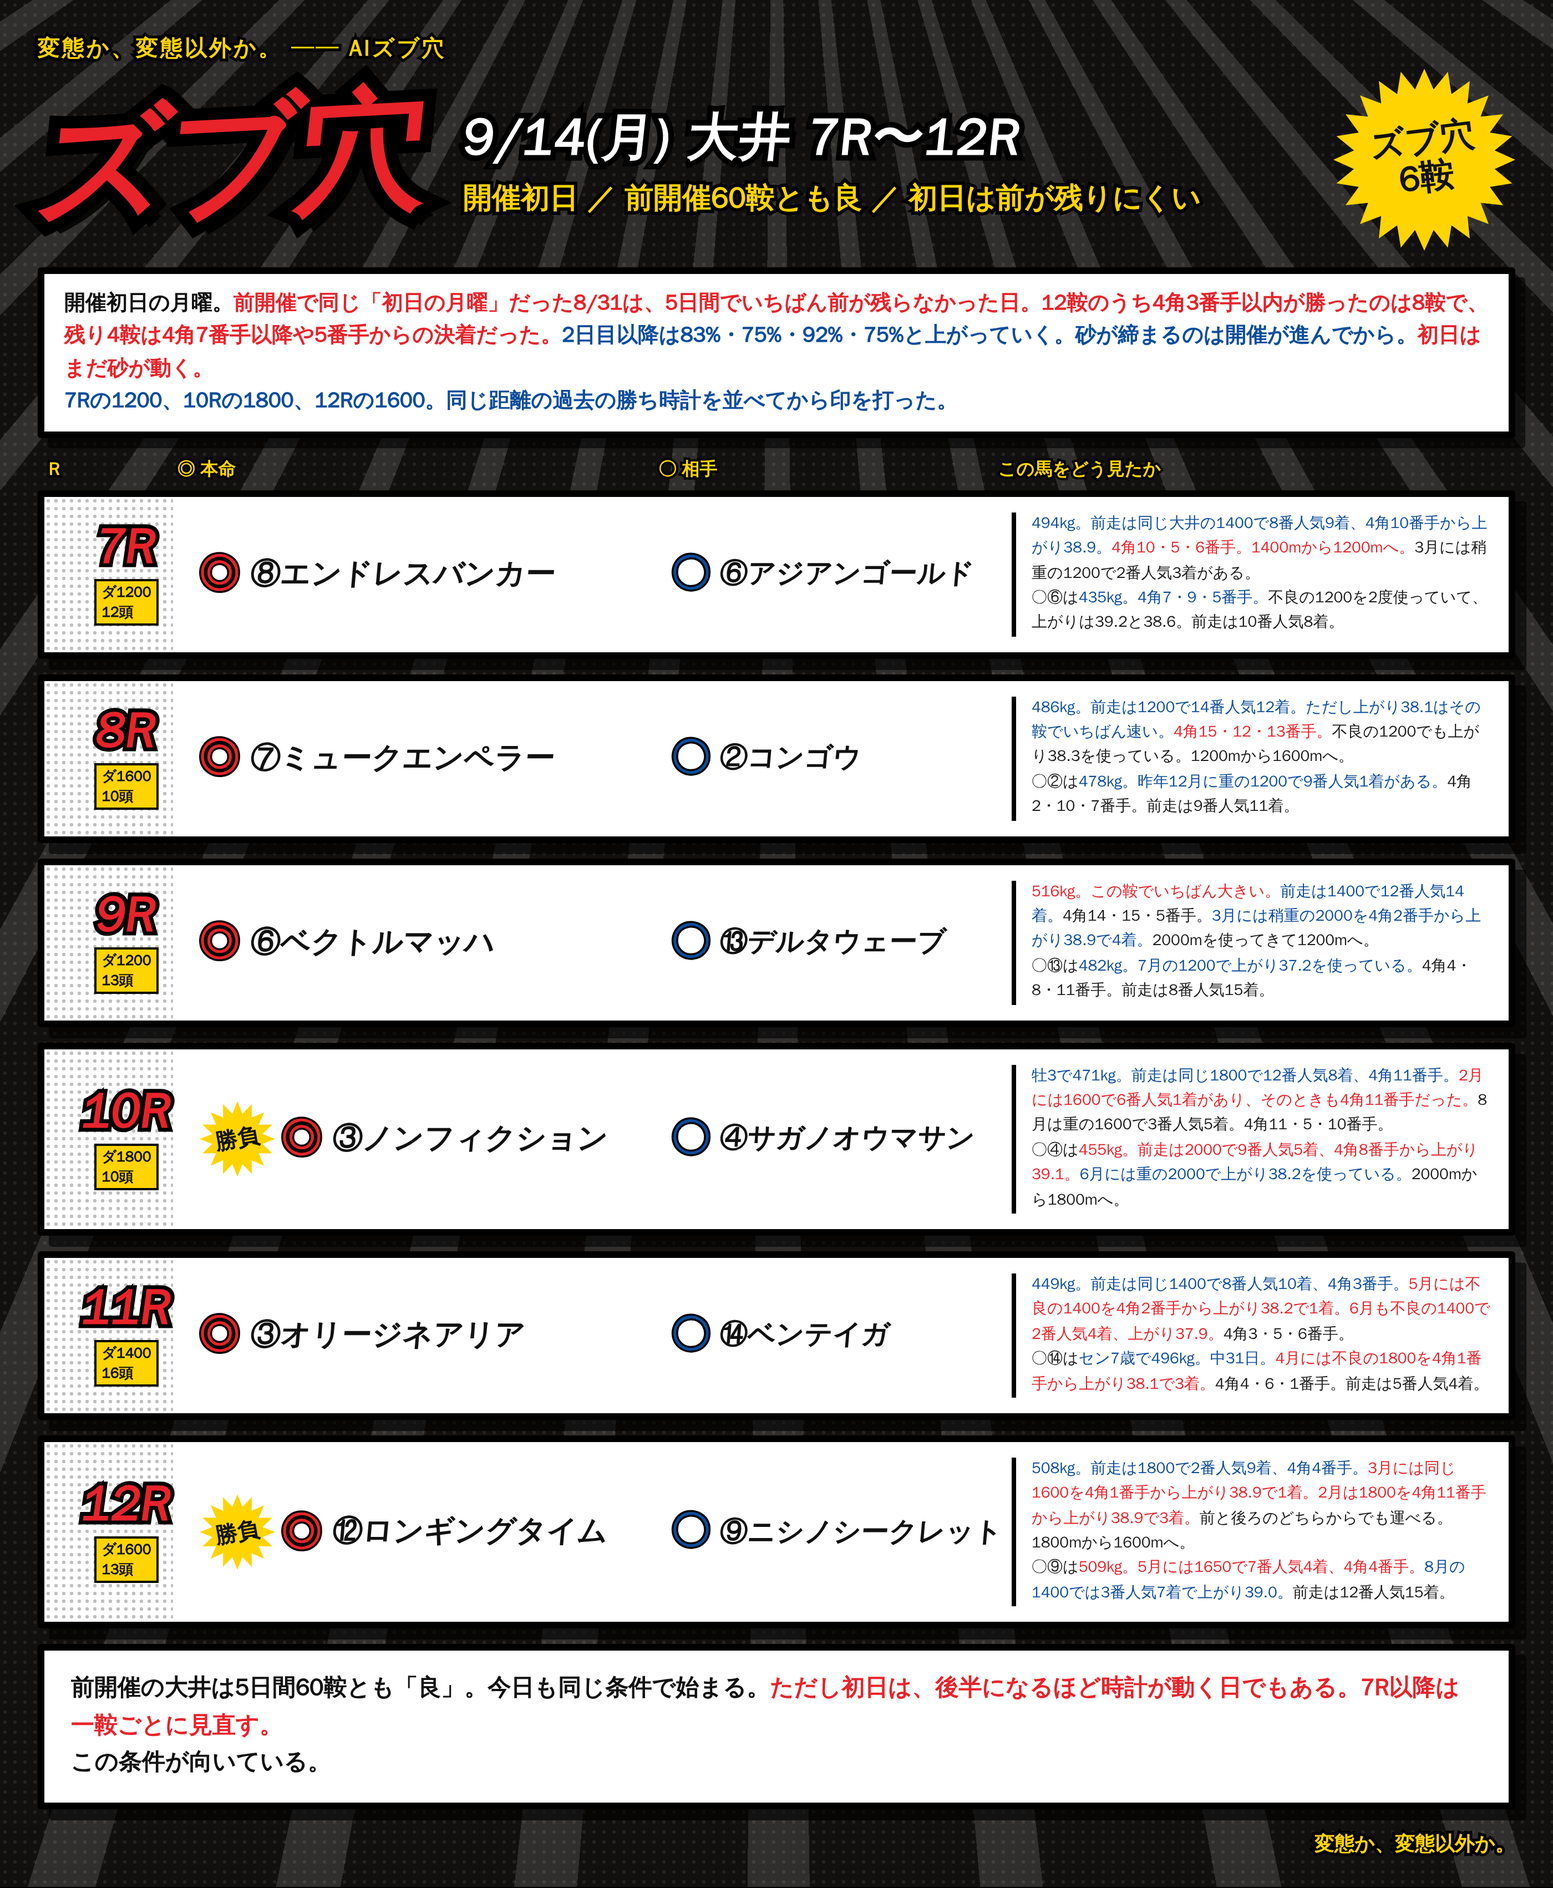
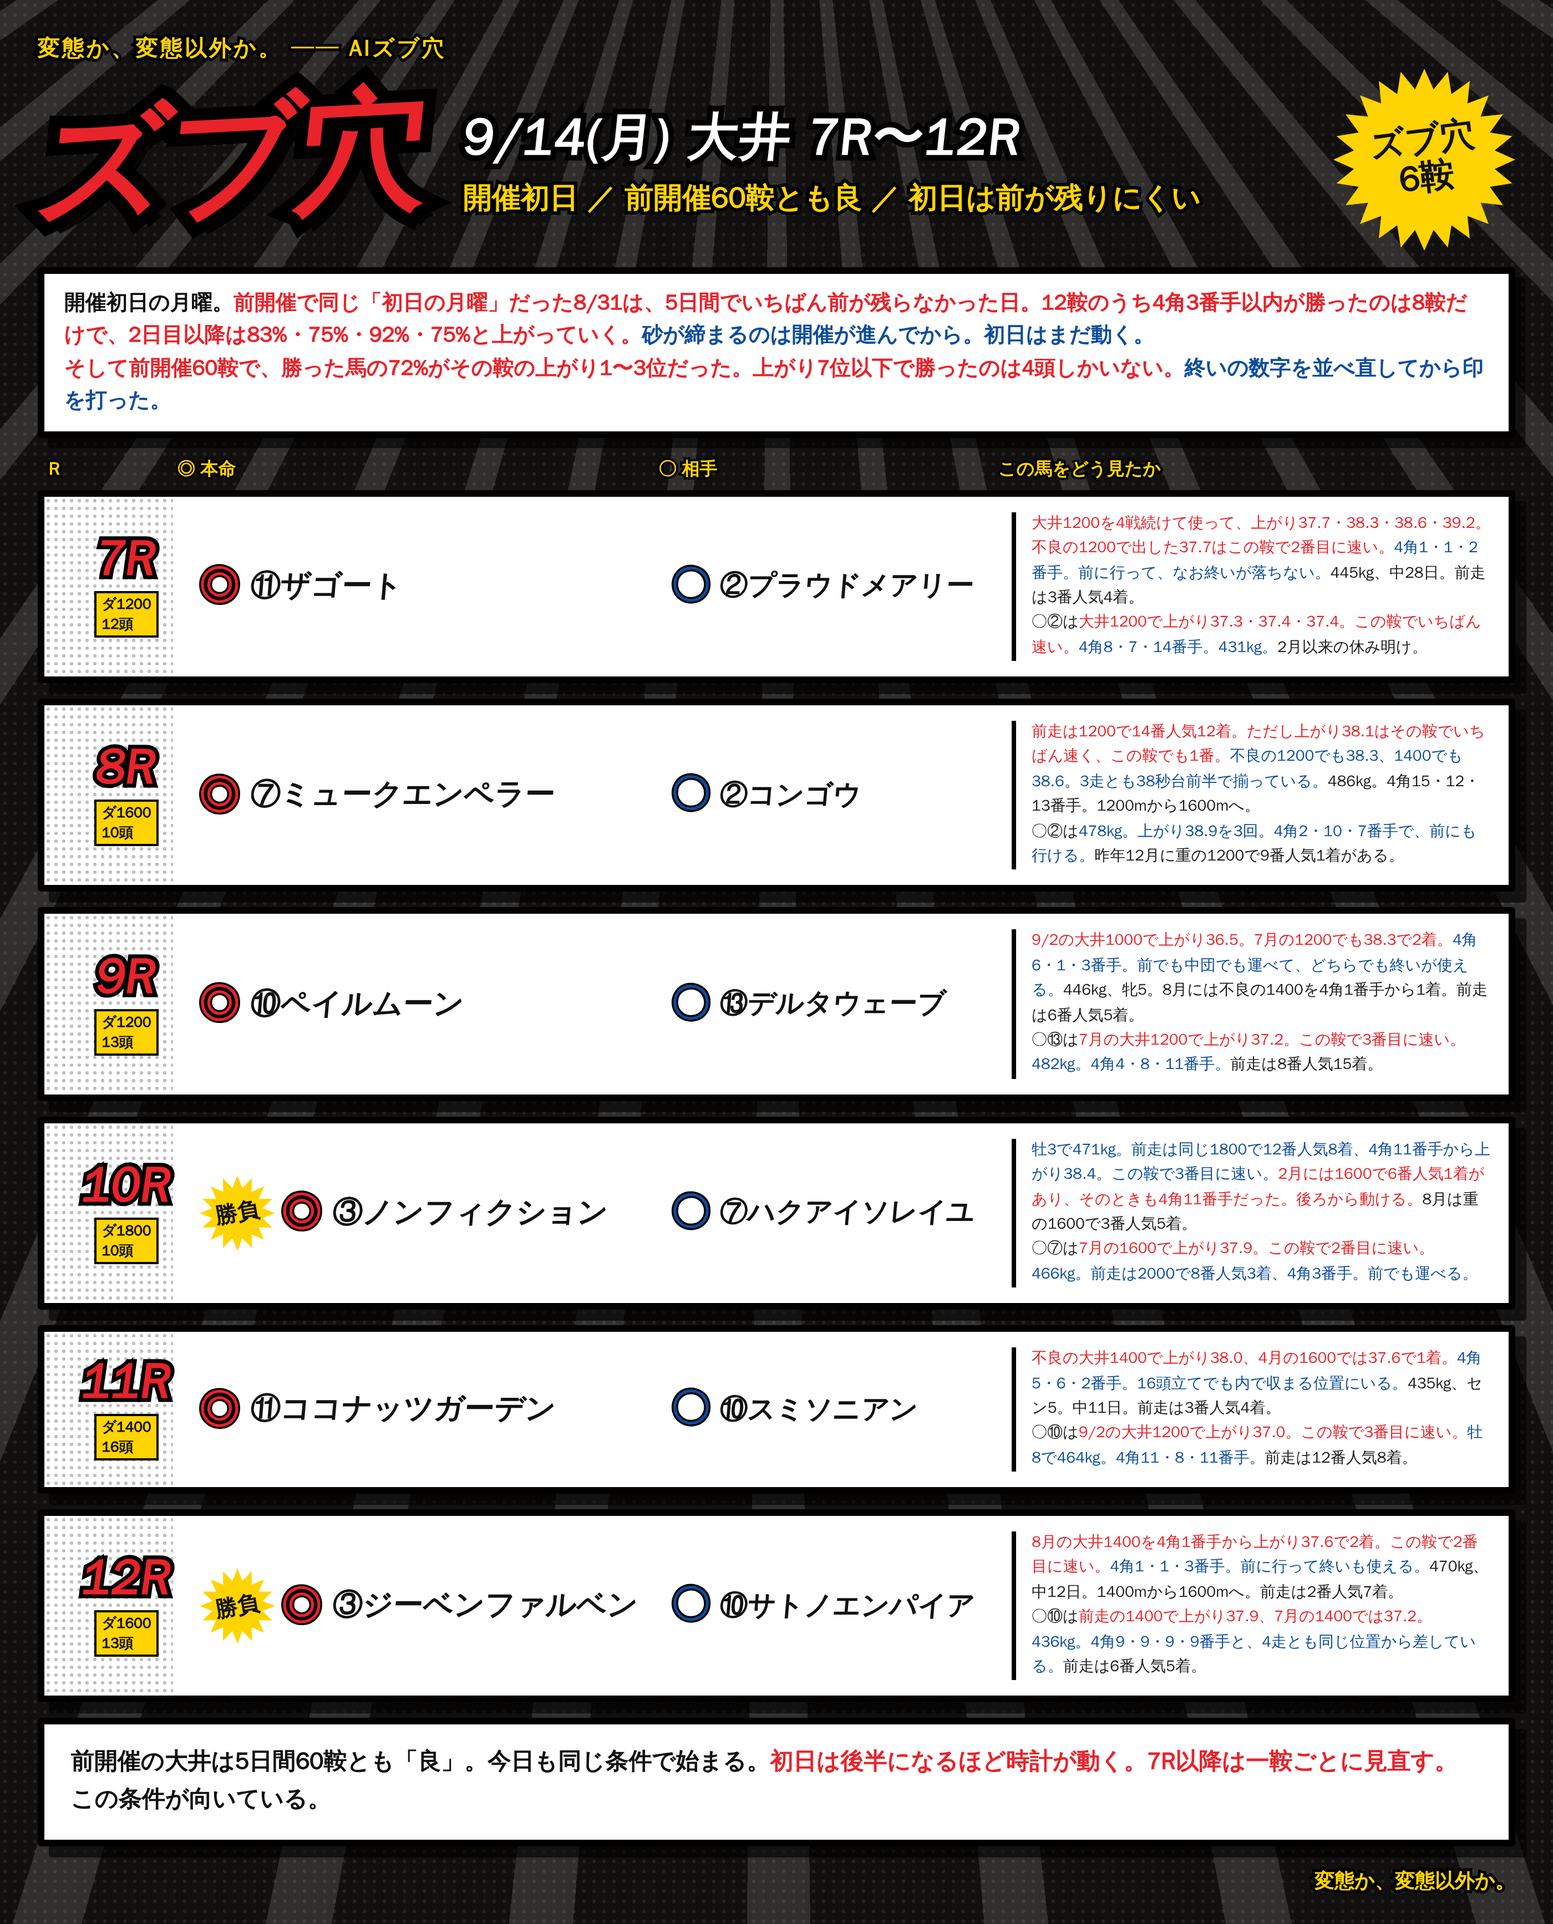
大井 9/14: 上がり順位を軸に7R〜12Rの印を打ち直し（前開催は1着の72%が上がり1〜3位）
Claude-Session: https://claude.ai/code/session_01RoHscZkr96FNaxQWvUqgEw

diff --git a/notes/live/2026-09-14/oi_7_12.html b/notes/live/2026-09-14/oi_7_12.html
@@ -79,14 +79,14 @@
 <body><div class="card"><div class="lines"></div><div class="tone"></div><div class="inner">
 <div class="kicker">変態か、変態以外か。 ── AIズブ穴</div>
 <div class="head"><div class="gekiga">ズブ穴</div><div class="dateblk"><div class="d1">9/14(月) 大井 7R〜12R</div><div class="d2">開催初日 ／ 前開催60鞍とも良 ／ 初日は前が残りにくい</div></div><div class="burst"><span>ズブ穴<br>6鞍</span></div></div>
-<div class="lead">開催初日の月曜。<span class="r">前開催で同じ「初日の月曜」だった8/31は、5日間でいちばん前が残らなかった日。12鞍のうち4角3番手以内が勝ったのは8鞍で、残り4鞍は4角7番手以降や5番手からの決着だった。</span><span class="b">2日目以降は83%・75%・92%・75%と上がっていく。砂が締まるのは開催が進んでから。</span><span class="r">初日はまだ砂が動く。</span><br><span class="b">7Rの1200、10Rの1800、12Rの1600。同じ距離の過去の勝ち時計を並べてから印を打った。</span></div>
+<div class="lead">開催初日の月曜。<span class="r">前開催で同じ「初日の月曜」だった8/31は、5日間でいちばん前が残らなかった日。12鞍のうち4角3番手以内が勝ったのは8鞍だけで、2日目以降は83%・75%・92%・75%と上がっていく。</span><span class="b">砂が締まるのは開催が進んでから。初日はまだ動く。</span><br><span class="r">そして前開催60鞍で、勝った馬の72%がその鞍の上がり1〜3位だった。上がり7位以下で勝ったのは4頭しかいない。</span><span class="b">終いの数字を並べ直してから印を打った。</span></div>
 <div class="cols"><div class="cR">R</div><div class="cH">◎ 本命</div><div class="cA">○ 相手</div><div class="cM">この馬をどう見たか</div></div>
-<div class="row"><div class="corner"></div><div class="rN"><div class="n">7R</div><div class="d">ダ1200<br>12頭</div></div><div class="hm"><span class="mk">◎</span><span class="nm">⑧エンドレスバンカー</span></div><div class="at"><span class="mk2">○</span><span class="nm2">⑥アジアンゴールド</span></div><div class="memo"><b>494kg。前走は同じ大井の1400で8番人気9着、4角10番手から上がり38.9。</b><b class="r">4角10・5・6番手。1400mから1200mへ。</b>3月には稍重の1200で2番人気3着がある。<br>○⑥は<b>435kg。4角7・9・5番手。</b>不良の1200を2度使っていて、上がりは39.2と38.6。前走は10番人気8着。</div></div>
-<div class="row"><div class="corner"></div><div class="rN"><div class="n">8R</div><div class="d">ダ1600<br>10頭</div></div><div class="hm"><span class="mk">◎</span><span class="nm">⑦ミュークエンペラー</span></div><div class="at"><span class="mk2">○</span><span class="nm2">②コンゴウ</span></div><div class="memo"><b>486kg。前走は1200で14番人気12着。ただし<span class="r">上がり38.1はその鞍でいちばん速い。</span></b><b class="r">4角15・12・13番手。</b>不良の1200でも上がり38.3を使っている。1200mから1600mへ。<br>○②は<b>478kg。昨年12月に重の1200で9番人気1着がある。</b>4角2・10・7番手。前走は9番人気11着。</div></div>
-<div class="row"><div class="corner"></div><div class="rN"><div class="n">9R</div><div class="d">ダ1200<br>13頭</div></div><div class="hm"><span class="mk">◎</span><span class="nm">⑥ベクトルマッハ</span></div><div class="at"><span class="mk2">○</span><span class="nm2">⑬デルタウェーブ</span></div><div class="memo"><b class="r">516kg。この鞍でいちばん大きい。</b><b>前走は1400で12番人気14着。</b>4角14・15・5番手。<b>3月には稍重の2000を4角2番手から上がり38.9で4着。</b>2000mを使ってきて1200mへ。<br>○⑬は<b>482kg。7月の1200で上がり37.2を使っている。</b>4角4・8・11番手。前走は8番人気15着。</div></div>
-<div class="row"><div class="corner"></div><div class="rN"><div class="n">10R</div><div class="d">ダ1800<br>10頭</div></div><div class="hm"><div class="sb"><span>勝負</span></div><span class="mk">◎</span><span class="nm">③ノンフィクション</span></div><div class="at"><span class="mk2">○</span><span class="nm2">④サガノオウマサン</span></div><div class="memo"><b>牡3で471kg。前走は同じ1800で12番人気8着、4角11番手。</b><b class="r">2月には1600で6番人気1着があり、そのときも4角11番手だった。</b>8月は重の1600で3番人気5着。4角11・5・10番手。<br>○④は<b class="r">455kg。前走は2000で9番人気5着、4角8番手から上がり39.1。</b><b>6月には重の2000で上がり38.2を使っている。</b>2000mから1800mへ。</div></div>
-<div class="row"><div class="corner"></div><div class="rN"><div class="n">11R</div><div class="d">ダ1400<br>16頭</div></div><div class="hm"><span class="mk">◎</span><span class="nm">③オリージネアリア</span></div><div class="at"><span class="mk2">○</span><span class="nm2">⑭ベンテイガ</span></div><div class="memo"><b>449kg。前走は同じ1400で8番人気10着、4角3番手。</b><b class="r">5月には不良の1400を4角2番手から上がり38.2で1着。6月も不良の1400で2番人気4着、上がり37.9。</b>4角3・5・6番手。<br>○⑭は<b>セン7歳で496kg。中31日。</b><b class="r">4月には不良の1800を4角1番手から上がり38.1で3着。</b>4角4・6・1番手。前走は5番人気4着。</div></div>
-<div class="row"><div class="corner"></div><div class="rN"><div class="n">12R</div><div class="d">ダ1600<br>13頭</div></div><div class="hm"><div class="sb"><span>勝負</span></div><span class="mk">◎</span><span class="nm">⑫ロンギングタイム</span></div><div class="at"><span class="mk2">○</span><span class="nm2">⑨ニシノシークレット</span></div><div class="memo"><b>508kg。前走は1800で2番人気9着、4角4番手。</b><b class="r">3月には同じ1600を4角1番手から上がり38.9で1着。2月は1800を4角11番手から上がり38.9で3着。</b>前と後ろのどちらからでも運べる。1800mから1600mへ。<br>○⑨は<b class="r">509kg。5月には1650で7番人気4着、4角4番手。</b><b>8月の1400では3番人気7着で上がり39.0。</b>前走は12番人気15着。</div></div>
-<div class="foot"><b>前開催の大井は5日間60鞍とも「良」。今日も同じ条件で始まる。</b><b class="r">ただし初日は、後半になるほど時計が動く日でもある。7R以降は一鞍ごとに見直す。</b><br><b>この条件が向いている。</b></div>
+<div class="row"><div class="corner"></div><div class="rN"><div class="n">7R</div><div class="d">ダ1200<br>12頭</div></div><div class="hm"><span class="mk">◎</span><span class="nm">⑪ザゴート</span></div><div class="at"><span class="mk2">○</span><span class="nm2">②プラウドメアリー</span></div><div class="memo"><b class="r">大井1200を4戦続けて使って、上がり37.7・38.3・38.6・39.2。不良の1200で出した37.7はこの鞍で2番目に速い。</b><b>4角1・1・2番手。前に行って、なお終いが落ちない。</b>445kg、中28日。前走は3番人気4着。<br>○②は<b class="r">大井1200で上がり37.3・37.4・37.4。この鞍でいちばん速い。</b><b>4角8・7・14番手。431kg。</b>2月以来の休み明け。</div></div>
+<div class="row"><div class="corner"></div><div class="rN"><div class="n">8R</div><div class="d">ダ1600<br>10頭</div></div><div class="hm"><span class="mk">◎</span><span class="nm">⑦ミュークエンペラー</span></div><div class="at"><span class="mk2">○</span><span class="nm2">②コンゴウ</span></div><div class="memo"><b class="r">前走は1200で14番人気12着。ただし上がり38.1はその鞍でいちばん速く、この鞍でも1番。</b><b>不良の1200でも38.3、1400でも38.6。3走とも38秒台前半で揃っている。</b>486kg。4角15・12・13番手。1200mから1600mへ。<br>○②は<b>478kg。上がり38.9を3回。4角2・10・7番手で、前にも行ける。</b>昨年12月に重の1200で9番人気1着がある。</div></div>
+<div class="row"><div class="corner"></div><div class="rN"><div class="n">9R</div><div class="d">ダ1200<br>13頭</div></div><div class="hm"><span class="mk">◎</span><span class="nm">⑩ペイルムーン</span></div><div class="at"><span class="mk2">○</span><span class="nm2">⑬デルタウェーブ</span></div><div class="memo"><b class="r">9/2の大井1000で上がり36.5。7月の1200でも38.3で2着。</b><b>4角6・1・3番手。前でも中団でも運べて、どちらでも終いが使える。</b>446kg、牝5。8月には不良の1400を4角1番手から1着。前走は6番人気5着。<br>○⑬は<b class="r">7月の大井1200で上がり37.2。この鞍で3番目に速い。</b><b>482kg。4角4・8・11番手。</b>前走は8番人気15着。</div></div>
+<div class="row"><div class="corner"></div><div class="rN"><div class="n">10R</div><div class="d">ダ1800<br>10頭</div></div><div class="hm"><div class="sb"><span>勝負</span></div><span class="mk">◎</span><span class="nm">③ノンフィクション</span></div><div class="at"><span class="mk2">○</span><span class="nm2">⑦ハクアイソレイユ</span></div><div class="memo"><b>牡3で471kg。前走は同じ1800で12番人気8着、4角11番手から上がり38.4。この鞍で3番目に速い。</b><b class="r">2月には1600で6番人気1着があり、そのときも4角11番手だった。後ろから動ける。</b>8月は重の1600で3番人気5着。<br>○⑦は<b class="r">7月の1600で上がり37.9。この鞍で2番目に速い。</b><b>466kg。前走は2000で8番人気3着、4角3番手。前でも運べる。</b></div></div>
+<div class="row"><div class="corner"></div><div class="rN"><div class="n">11R</div><div class="d">ダ1400<br>16頭</div></div><div class="hm"><span class="mk">◎</span><span class="nm">⑪ココナッツガーデン</span></div><div class="at"><span class="mk2">○</span><span class="nm2">⑩スミソニアン</span></div><div class="memo"><b class="r">不良の大井1400で上がり38.0、4月の1600では37.6で1着。</b><b>4角5・6・2番手。16頭立てでも内で収まる位置にいる。</b>435kg、セン5。中11日。前走は3番人気4着。<br>○⑩は<b class="r">9/2の大井1200で上がり37.0。この鞍で3番目に速い。</b><b>牡8で464kg。4角11・8・11番手。</b>前走は12番人気8着。</div></div>
+<div class="row"><div class="corner"></div><div class="rN"><div class="n">12R</div><div class="d">ダ1600<br>13頭</div></div><div class="hm"><div class="sb"><span>勝負</span></div><span class="mk">◎</span><span class="nm">③ジーベンファルベン</span></div><div class="at"><span class="mk2">○</span><span class="nm2">⑩サトノエンパイア</span></div><div class="memo"><b class="r">8月の大井1400を4角1番手から上がり37.6で2着。この鞍で2番目に速い。</b><b>4角1・1・3番手。前に行って終いも使える。</b>470kg、中12日。1400mから1600mへ。前走は2番人気7着。<br>○⑩は<b class="r">前走の1400で上がり37.9、7月の1400では37.2。</b><b>436kg。4角9・9・9・9番手と、4走とも同じ位置から差している。</b>前走は6番人気5着。</div></div>
+<div class="foot"><b>前開催の大井は5日間60鞍とも「良」。今日も同じ条件で始まる。</b><b class="r">初日は後半になるほど時計が動く。7R以降は一鞍ごとに見直す。</b><br><b>この条件が向いている。</b></div>
 <div class="sig">変態か、変態以外か。</div>
 </div></div></body></html>

diff --git a/notes/live/2026-09-14/README.md b/notes/live/2026-09-14/README.md
@@ -450,22 +450,27 @@
 
 カード: `oi_7_12.png`
 
-| R | 条件 | ◎ | ○ |
-|---|---|---|---|
-| 7R | ダ1200 12頭 Ｃ２ | ⑧エンドレスバンカー | ⑥アジアンゴールド |
-| 8R | ダ1600 10頭 Ｃ２ | ⑦ミュークエンペラー | ②コンゴウ |
-| 9R | ダ1200 13頭 Ｃ２ | ⑥ベクトルマッハ | ⑬デルタウェーブ |
-| **10R【勝負】** | ダ1800 10頭 Ｃ１ | ③ノンフィクション | ④サガノオウマサン |
-| 11R | ダ1400 16頭 Ｂ２ | ③オリージネアリア | ⑭ベンテイガ |
-| **12R【勝負】** | ダ1600 13頭 Ｂ３ | ⑫ロンギングタイム | ⑨ニシノシークレット |
+### 上がり順位で組み直した経緯
+最初に打った印は、6鞍のうち4鞍で◎が鞍内の上がり下位だった（7R⑧＝9/12位、9R⑥＝13/13位、11R③＝11/16位、12R⑫＝10/13位）。
+前開催60鞍の数字と合わない：
 
-◎はすべて前走で馬券になっていない馬から。勝負は10Rと12Rの2つ。
+- 1着馬の上がり順位 → 1位26回・2位10回・3位7回。**1〜3位で43頭（72%）、7位以下は4頭だけ**
+- **上がり最速馬は60鞍で26勝（43%）・3着内62%**
+- ただし位置で割れる → 上がり最速×4角1〜3番手は**19鞍すべて3着内（100%）**、4〜6番手78%、**7番手以降は34%**
 
-内部メモ（カードには載せない）:
-- 7R ◎⑧ 399=10.8 エッジ5 本物2 494kg／○⑥ 399=11.3 鞍内トップ
-- 8R ◎⑦ 399=10.2 本物3 486kg・前走の上がり38.1は組最速／○② 399=7.4 エッジ3 本物2
-- 9R ◎⑥ 399=10.3 516kg 鞍内最重・上杉昌／○⑬ 399=8.4 本物3 482kg
-- 10R ◎③ 399=11.7 エッジ5 本物2 471kg 吉井章・的場直／○④ 399=15.3 鞍内トップ 本物3
-- 11R ◎③ 399=9.5 本田重・福永敏 前走10着8人気／○⑭ エッジ7 鞍内最多・中31日
-- 12R ◎⑫ 399=10.7 エッジ5 508kg 吉井章・的場直／○⑨ 509kg 達城龍・市村誠
-- 8歳（9R④⑪⑨・11R⑩）と439kg以下（7R⑥④・9R⑤⑫・11R⑪⑨・12R⑩⑦①）は印から外した
+体重・間隔・騎手・厩舎を重ねているうちに、いちばん効く軸（終いの数字）を落としていた。
+**「近3走の上がり上位 × 前めの位置が取れる」**に戻して打ち直した。他場の上がりは同列に扱わない（12R⑤ウィンターサンの37.2/37.8は盛岡なので採らない）。
+
+### 印
+| R | 条件 | ◎ | 上がり順位 | ○ | 上がり順位 |
+|---|---|---|---|---|---|
+| 7R | ダ1200 12頭 | ⑪ザゴート | 2/12（4角1・1・2） | ②プラウドメアリー | 1/12 |
+| 8R | ダ1600 10頭 | ⑦ミュークエンペラー | 1/10 | ②コンゴウ | 4/10 |
+| 9R | ダ1200 13頭 | ⑩ペイルムーン | 1/13（4角6・1・3） | ⑬デルタウェーブ | 3/13 |
+| **10R【勝負】** | ダ1800 10頭 | ③ノンフィクション | 3/10 | ⑦ハクアイソレイユ | 2/10（4角3番手） |
+| 11R | ダ1400 16頭 | ⑪ココナッツガーデン | 7/16（4角5・6・2） | ⑩スミソニアン | 3/16 |
+| **12R【勝負】** | ダ1600 13頭 | ③ジーベンファルベン | 2/13（4角1・1・3） | ⑩サトノエンパイア | 4/13 |
+
+◎はすべて前走で馬券になっていない馬から。勝負は10Rと12R。
+
+外した馬（旧◎）: 7R⑧エンドレスバンカー・9R⑥ベクトルマッハ・11R③オリージネアリア・12R⑫ロンギングタイム。いずれも上がり下位。
